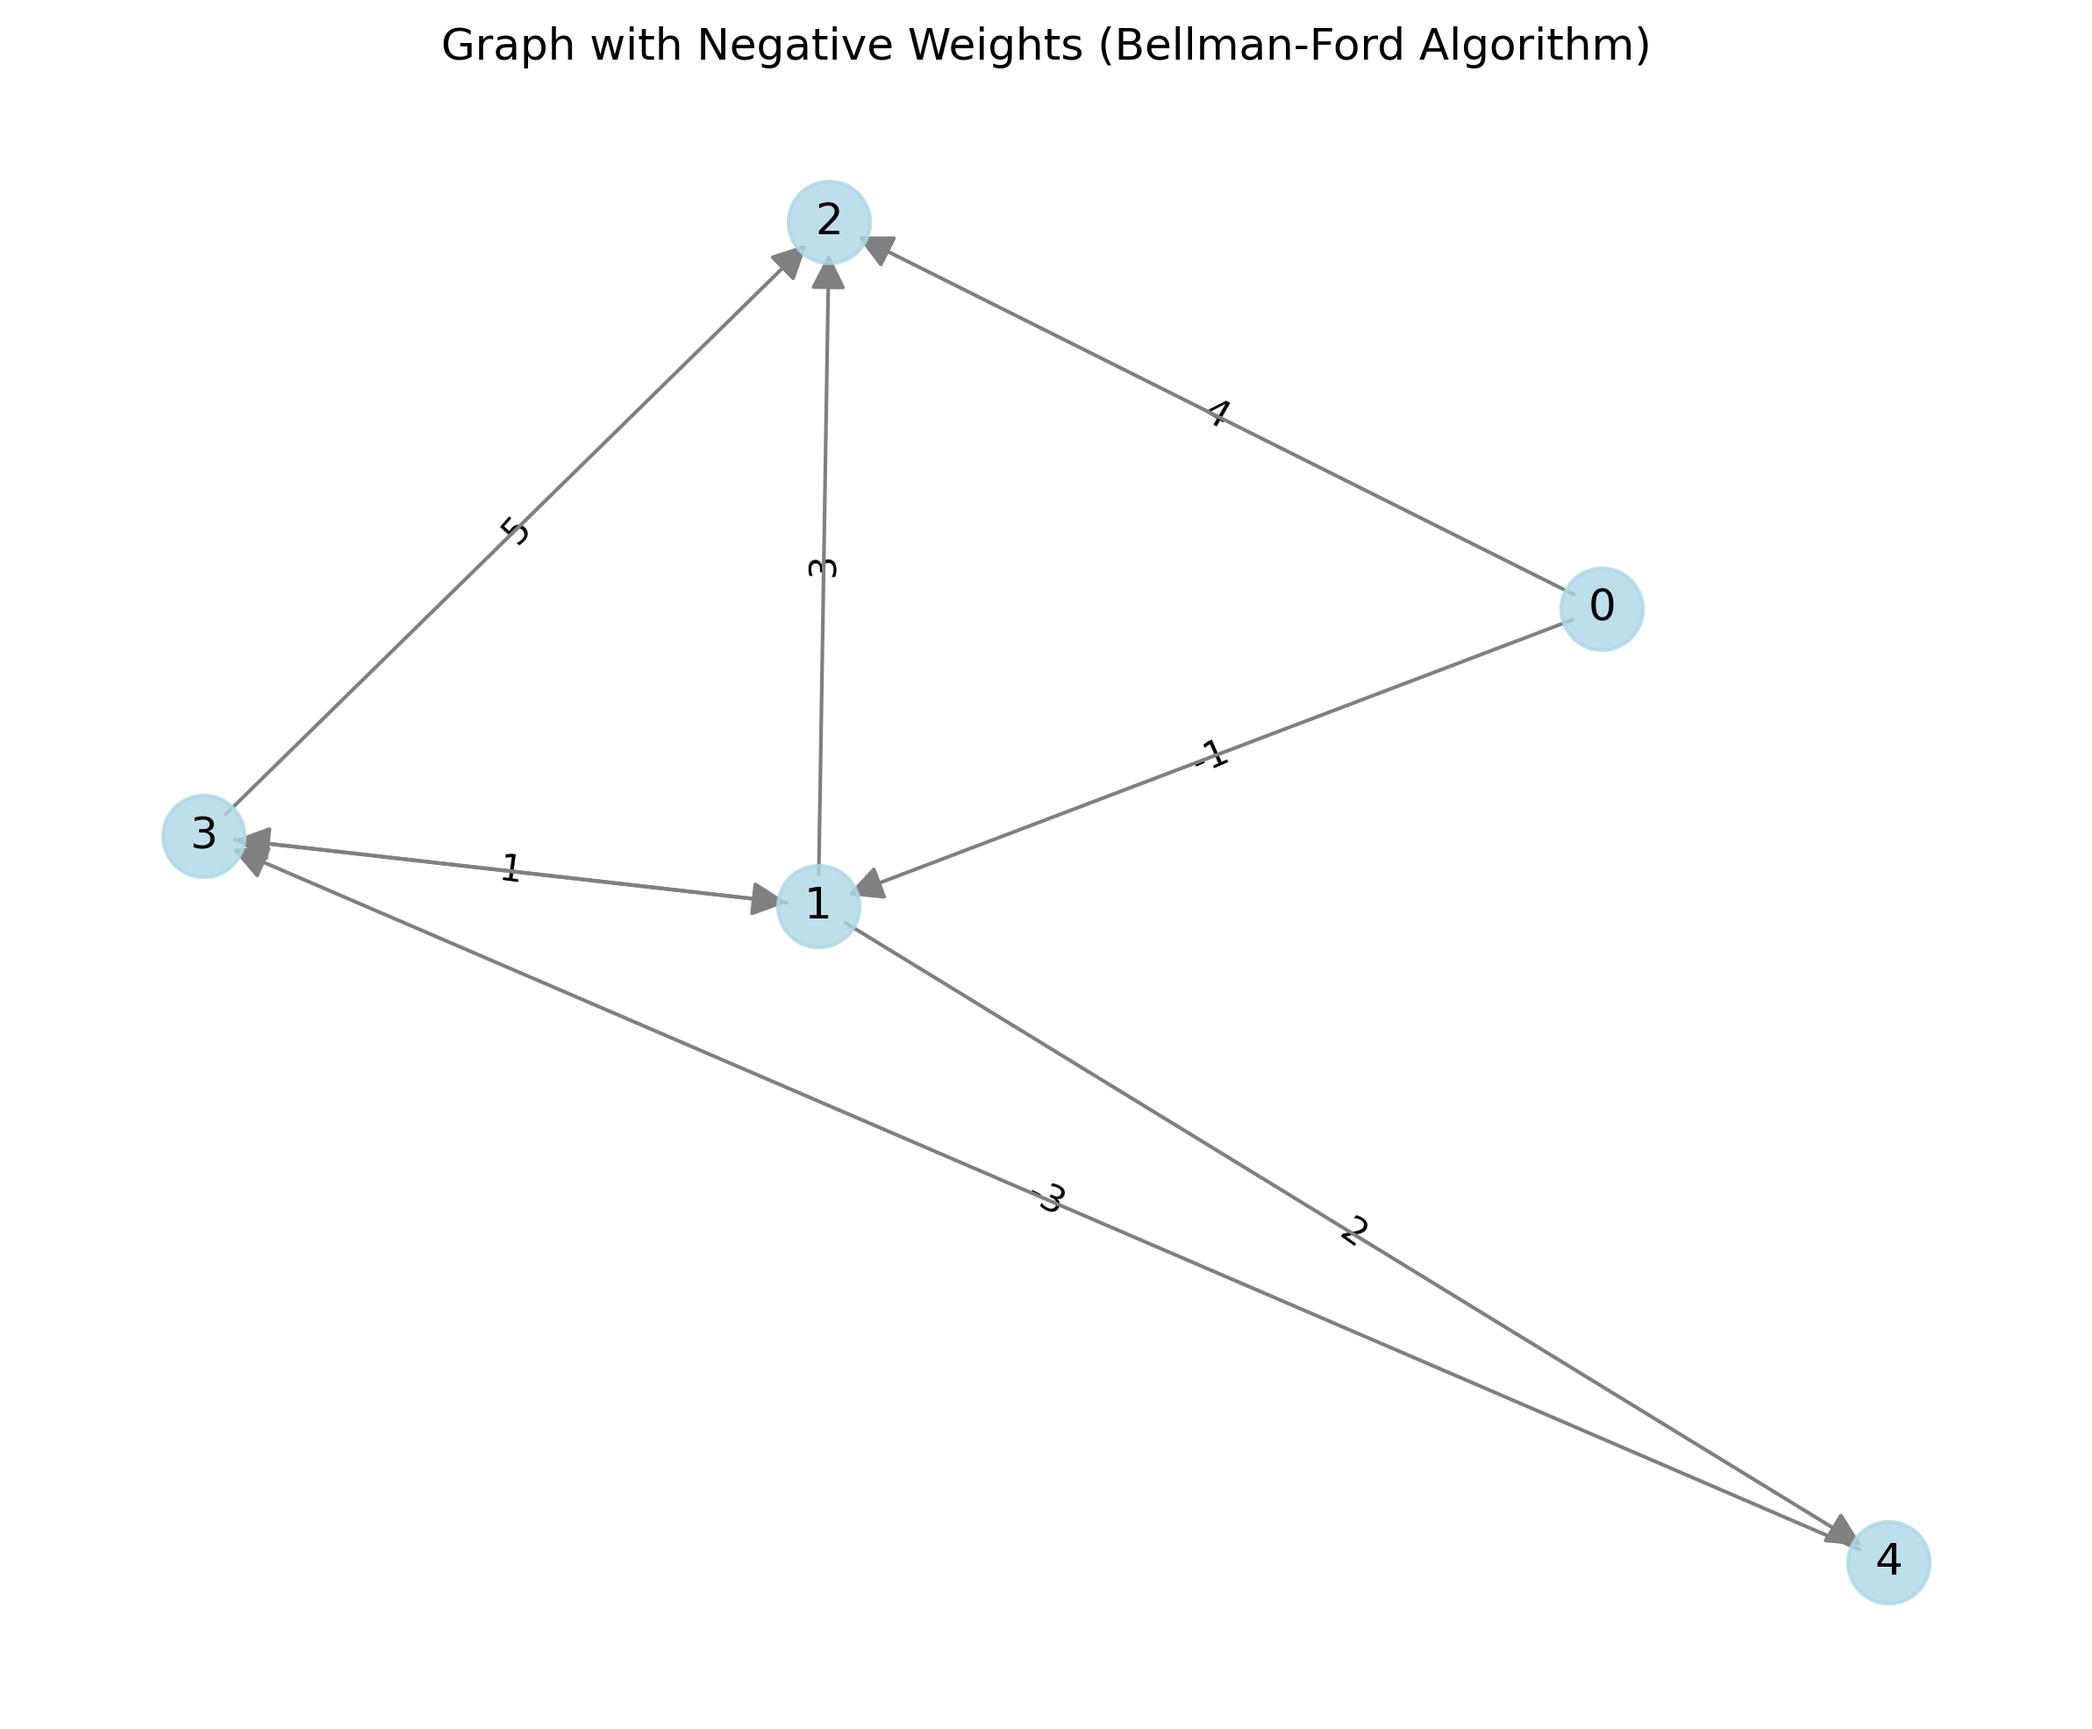
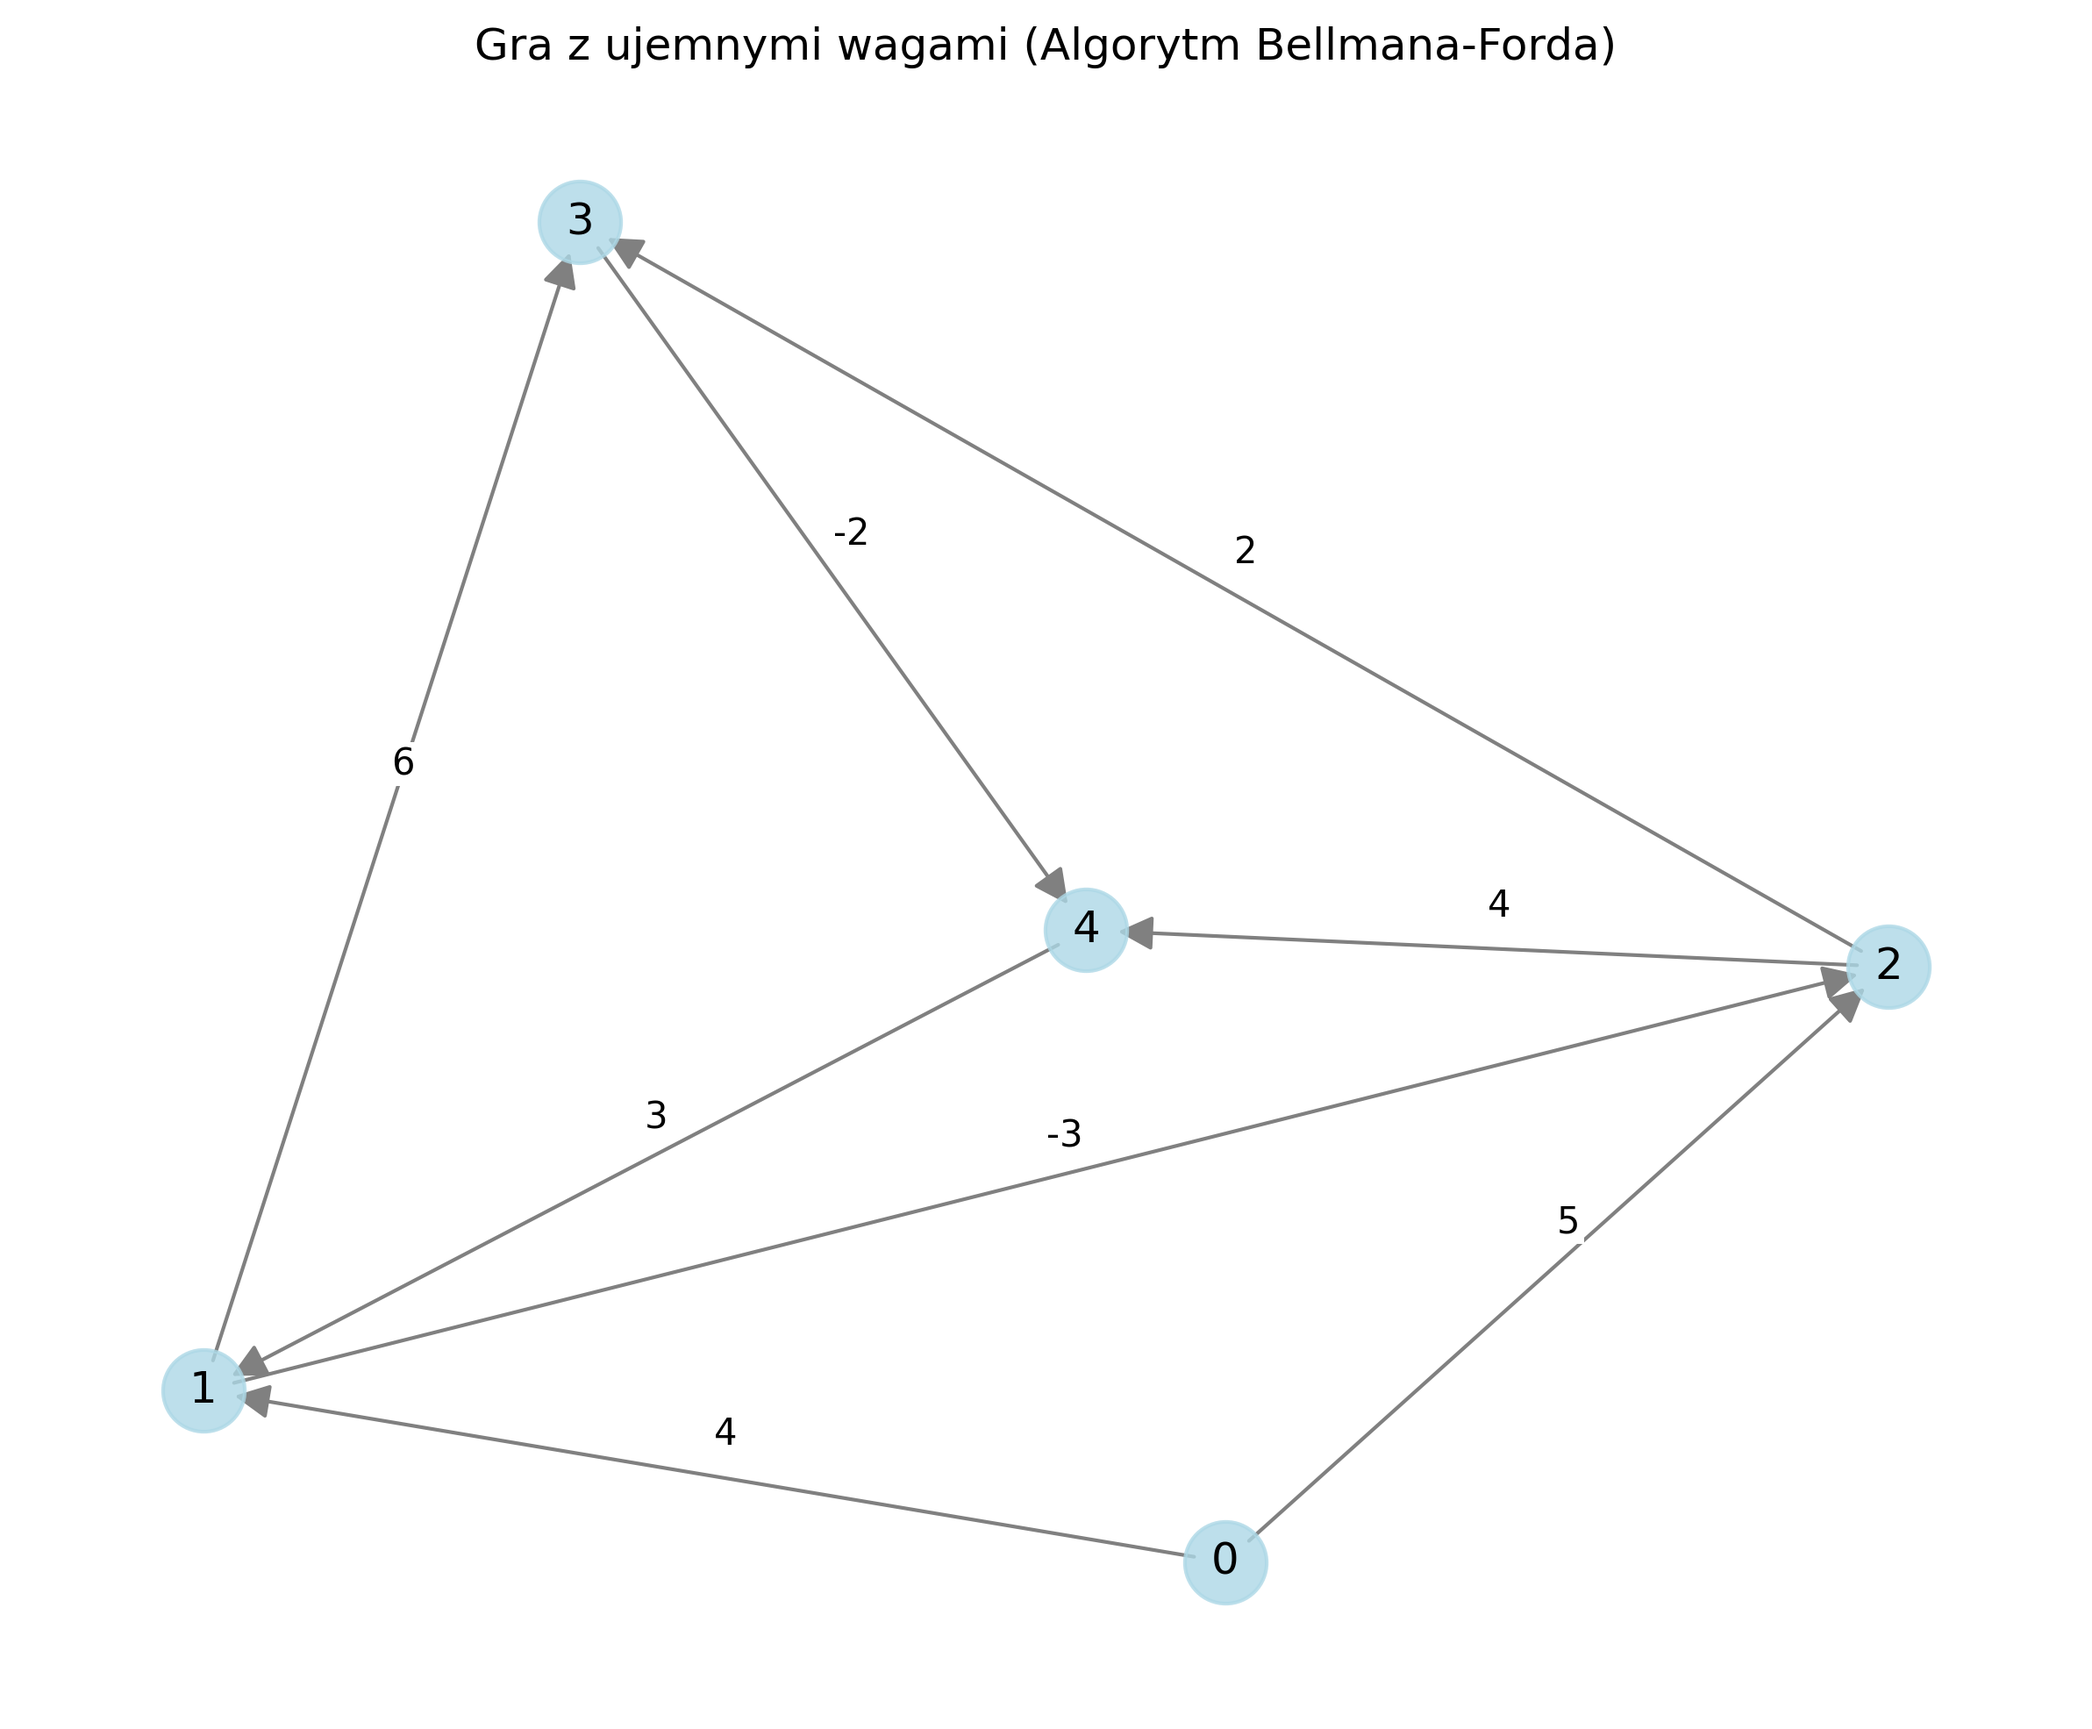
Popraweczki kurde

diff --git a/main.py b/main.py
@@ -4,14 +4,14 @@ from graph_examples import create_dijkstra_example, create_bellman_ford_example
 
 
 def print_result(algorithm_name: str, distances: dict, predecessors: dict, start: int, target: int):
-    print(f'\n{algorithm_name} Results:')
-    print(f'Distance to vertex {target}: {distances[target]}')
+    print(f'\n{algorithm_name} Wyniki:')
+    print(f'Dystans do wierzchołka {target}: {distances[target]}')
     path = get_path(predecessors, target)
-    print(f'Path to vertex {target}: {" -> ".join(map(str, path))}')
+    print(f'Ścieżka do wierzchołka {target}: {" -> ".join(map(str, path))}')
 
 
 def main():
-    print("Example 1: Simple graph (Dijkstra's Algorithm)")
+    print("Przykład pierwszy: Prosty graf (Algorytm Dijkstry)")
     graph1 = create_dijkstra_example()
     start_vertex = 0
     target_vertex = 4
@@ -21,7 +21,7 @@ def main():
     print(predecessors)
     print_result('Dijkstra', distances, predecessors, start_vertex, target_vertex)
 
-    print('\nExample 2: Graph with negative weights (Bellman-Ford Algorithm)')
+    print('\nPrzykład drugi: Graf z ujemnymi wagami (Algorytm Bellmana-Forda)')
     graph2 = create_bellman_ford_example()
 
     distances, predecessors, no_negative_cycle = bellman_ford(graph2, start_vertex)
@@ -29,9 +29,8 @@ def main():
     if no_negative_cycle:
         print_result('Bellman-Ford', distances, predecessors, start_vertex, target_vertex)
     else:
-        print('Negative cycle detected!')
+        print('Ujemny cykl')
 
-    print('\nGenerating graph visualizations...')
 
     visualize()
 

diff --git a/visualize.py b/visualize.py
@@ -20,7 +20,13 @@ def create_graph_visualization(graph: Graph, title: str, filename: str):
     nx.draw_networkx_labels(G, pos)
 
     edge_labels = nx.get_edge_attributes(G, 'weight')
-    nx.draw_networkx_edge_labels(G, pos, edge_labels)
+    for (src, dst), label in edge_labels.items():
+        x_src, y_src = pos[src]
+        x_dst, y_dst = pos[dst]
+        x_label = (x_src + x_dst) / 2
+        y_label = (y_src + y_dst) / 2 + 0.04  
+
+        plt.text(x_label, y_label, str(label), fontsize=10, bbox=dict(facecolor='white', edgecolor='none', pad=1.0))
     nx.draw_networkx_edges(G, pos, edge_color='gray', arrowsize=20)
 
     plt.axis('off')
@@ -33,7 +39,7 @@ def visualize():
     graph1 = create_dijkstra_example()
     create_graph_visualization(
         graph1,
-        "Graph with Non-negative Weights (Dijkstra's Algorithm)",
+        "Graf z nieujemnymi wagami (Algorytm Dijkstry)",
         'dijkstra_graph.png',
     )
 
@@ -41,6 +47,6 @@ def visualize():
     graph2 = create_bellman_ford_example()
     create_graph_visualization(
         graph2,
-        'Graph with Negative Weights (Bellman-Ford Algorithm)',
+        'Gra z ujemnymi wagami (Algorytm Bellmana-Forda)',
         'bellman_ford_graph.png',
     )

diff --git a/graph_examples.py b/graph_examples.py
@@ -3,25 +3,25 @@ from graph import Graph
 
 def create_dijkstra_example() -> Graph:
     graph = Graph()
-    graph.add_edge(0, 1, 4)
+    graph.add_edge(0, 1, 7)
     graph.add_edge(0, 2, 2)
-    graph.add_edge(1, 2, 1)
-    graph.add_edge(2, 1, 1)
-    graph.add_edge(1, 3, 5)
-    graph.add_edge(2, 3, 8)
-    graph.add_edge(2, 4, 1)
-    graph.add_edge(3, 4, 2)
+    graph.add_edge(1, 3, 3)
+    graph.add_edge(2, 3, 2)
+    graph.add_edge(3, 4, 4)
+    graph.add_edge(1, 4, 15) 
+    graph.add_edge(2, 5, 3)
+    graph.add_edge(5, 4, 2)
     return graph
 
 
 def create_bellman_ford_example() -> Graph:
     graph = Graph()
-    graph.add_edge(0, 1, -1)
-    graph.add_edge(0, 2, 4)
-    graph.add_edge(1, 2, 3)
-    graph.add_edge(1, 3, 2)
-    graph.add_edge(1, 4, 2)
-    graph.add_edge(3, 2, 5)
-    graph.add_edge(3, 1, 1)
-    graph.add_edge(4, 3, -3)
+    graph.add_edge(0, 1, 4)
+    graph.add_edge(0, 2, 5)
+    graph.add_edge(1, 2, -3)
+    graph.add_edge(1, 3, 6)
+    graph.add_edge(2, 3, 2)
+    graph.add_edge(2, 4, 4)
+    graph.add_edge(3, 4, -2)
+    graph.add_edge(4, 1, 3) 
     return graph

diff --git a/dokumentacja.md b/dokumentacja.md
@@ -4,35 +4,35 @@ Temat: **Problem najkrótszej ścieżki (z jednego miejsca)**
 
 Problem najkrótszej ścieżki z pojedynczego źródła (Single-Source Shortest Path - SSSP) polega na znalezieniu najkrótszych ścieżek z wybranego wierzchołka źródłowego do wszystkich pozostałych wierzchołków w grafie ważonym. Wagi krawędzi reprezentują odległości, koszty, czas lub inne metryki, które chcemy zminimalizować.
 
-W kontekście grafu ważonego G = (V, E), gdzie:
+Dla grafu ważonego G = (V, E), gdzie:
 
-- V to zbiór wierzchołków
-- E to zbiór krawędzi
-- Każda krawędź e ∈ E ma przypisaną wagę w(e)
+-   V to zbiór wierzchołków
+-   E to zbiór krawędzi
+-   Każda krawędź e ∈ E ma przypisaną wagę w(e)
 
-Celem jest znalezienie najkrótszej ścieżki p(s,v) dla każdego wierzchołka v ∈ V, gdzie s jest wierzchołkiem źródłowym. Ścieżka p(s,v) jest sekwencją krawędzi prowadzących od s do v o minimalnej sumie wag.
+Celem jest znalezienie najkrótszej ścieżki p(s,v) dla każdego wierzchołka v ∈ V, gdzie s jest wierzchołkiem źródłowym. Ścieżka p(s,v) jest sekwencją krawędzi prowadzących od s do v o jak najmniejszej sumie wag.
 
 # Omówienie różnych metod rozwiązania problemu
 
 ## Algorytm Dijkstry
 
-Algorytm Dijkstry jest efektywną metodą znajdowania najkrótszych ścieżek w grafach z nieujemnymi wagami krawędzi. Jego główne cechy:
+Algorytm Dijkstry jest efektywną metodą znajdowania najkrótszych ścieżek w grafach z nieujemnymi wagami krawędzi. Jego główne cechy to:
 
-- Złożoność czasowa: O((V + E) log V) przy użyciu kolejki priorytetowej
-- Wymaga, aby wszystkie wagi były nieujemne
-- Wykorzystuje strategię zachłanną
-- Gwarantuje znalezienie optymalnego rozwiązania dla grafów z nieujemnymi wagami
+-   Złożoność czasowa: O((V + E) log V) przy użyciu kolejki priorytetowej
+-   Wymóg tego, aby wszystkie wagi były nieujemne
+-   Zachłanność
+-   Gwarancja znalezienia optymalnego rozwiązania dla grafów z nieujemnymi wagami
 
 Algorytm działa poprzez iteracyjne wybieranie wierzchołka o najmniejszej tymczasowej odległości i relaksację jego krawędzi wychodzących.
 
 ## Algorytm Bellmana-Forda
 
-Algorytm Bellmana-Forda jest alternatywną metodą, która może pracować z ujemnymi wagami krawędzi:
+Algorytm Bellmana-Forda jest alternatywną metodą, która działa z ujemnymi wagami krawędzi. Jego główne cechy t:
 
-- Złożoność czasowa: O(V × E)
-- Może obsługiwać ujemne wagi krawędzi
-- Wykrywa ujemne cykle w grafie
-- Wolniejszy od algorytmu Dijkstry, ale bardziej uniwersalny
+-   Złożoność czasowa: O(V × E)
+-   Obsługa ujemnych wag krawędzi
+-   Wykrywanie ujemnych cykli w grafie
+-   Mniejsza prędkość, ale większa uniwersalność w porównaniu do algorytmu Dijkstry
 
 Algorytm wykonuje V-1 iteracji relaksacji wszystkich krawędzi, a następnie sprawdza występowanie ujemnych cykli.
 
@@ -42,27 +42,27 @@ Problem najkrótszej ścieżki ma wiele praktycznych zastosowań:
 
 1. Systemy nawigacji GPS
 
-   - Znajdowanie najkrótszej/najszybszej trasy między lokalizacjami
-   - Optymalizacja tras w czasie rzeczywistym
+    - Znajdowanie najkrótszej/najszybszej trasy między lokalizacjami
+    - Optymalizacja tras w czasie rzeczywistym
 
 2. Sieci komputerowe
 
-   - Routing pakietów w sieciach
-   - Optymalizacja opóźnień w komunikacji
+    - Routing pakietów w sieciach
+    - Optymalizacja opóźnień w komunikacji
 
 3. Logistyka i transport
 
-   - Planowanie tras dostaw
-   - Optymalizacja kosztów transportu
+    - Planowanie tras dostaw
+    - Optymalizacja kosztów transportu
 
 4. Media społecznościowe
 
-   - Znajdowanie połączeń między użytkownikami
-   - Analiza sieci społecznych
+    - Znajdowanie połączeń między użytkownikami
+    - Analiza sieci społecznych
 
 5. Gry komputerowe
-   - Pathfinding dla postaci
-   - Sztuczna inteligencja NPC
+    - Pathfinding dla postaci
+    - Sztuczna inteligencja NPC
 
 # Opis zastosowanych algorytmów
 
@@ -128,8 +128,8 @@ Program demonstruje działanie obu algorytmów na dwóch różnych przykładach:
 
 Wynik dla ścieżki 0 -> 4:
 
-- Najkrótsza ścieżka: 0 -> 2 -> 4
-- Całkowita odległość: 3
+-   Najkrótsza ścieżka: 0 -> 2 -> 5 -> 4
+-   Całkowita odległość: 7
 
 2. Graf z wagami ujemnymi (Bellman-Ford):
 
@@ -137,17 +137,21 @@ Wynik dla ścieżki 0 -> 4:
 
 Wynik dla ścieżki 0 -> 4
 
-- Najkrótsza ścieżka: 0 -> 1 -> 4
-- Całkowita odległość: 1
-
-Wynik pokazuje zdolność algorytmu Bellmana-Forda do pracy z ujemnymi wagami i wykrywania ujemnych cykli.
+-   Najkrótsza ścieżka: 0 -> 1 -> 2 -> 3 -> 4
+-   Całkowita odległość: 1
 
 # Podział zadań
 
-- **Szymon Rafałowski**:
-  - Implementacja algorytmu Dijkstry
-  - Implementacja algorytmu Bellmana-Forda
-  - Implementacja przykładów grafów
-  - Implementacja dokumentacji
-- **Aleks Rogoziński**:
-  - Dodaj tutaj
+-   **Szymon Rafałowski**:
+
+    -   Implementacja algorytmu Dijkstry
+    -   Implementacja algorytmu Bellmana-Forda
+    -   Implementacja funkcji generującej wizualizacje
+    -   Implementacja pseudokodów
+
+-   **Aleks Rogoziński**:
+
+    -   Dokumentacja: opis problemu, opisanie algorytmów, przykłady zastosowania
+    -   Implementacja grafu, funkcji main, przykładów grafów
+    -   Wsparcie w implementacji algorytmów
+    -   Poprawki w funkcji generującej wizualizacje
